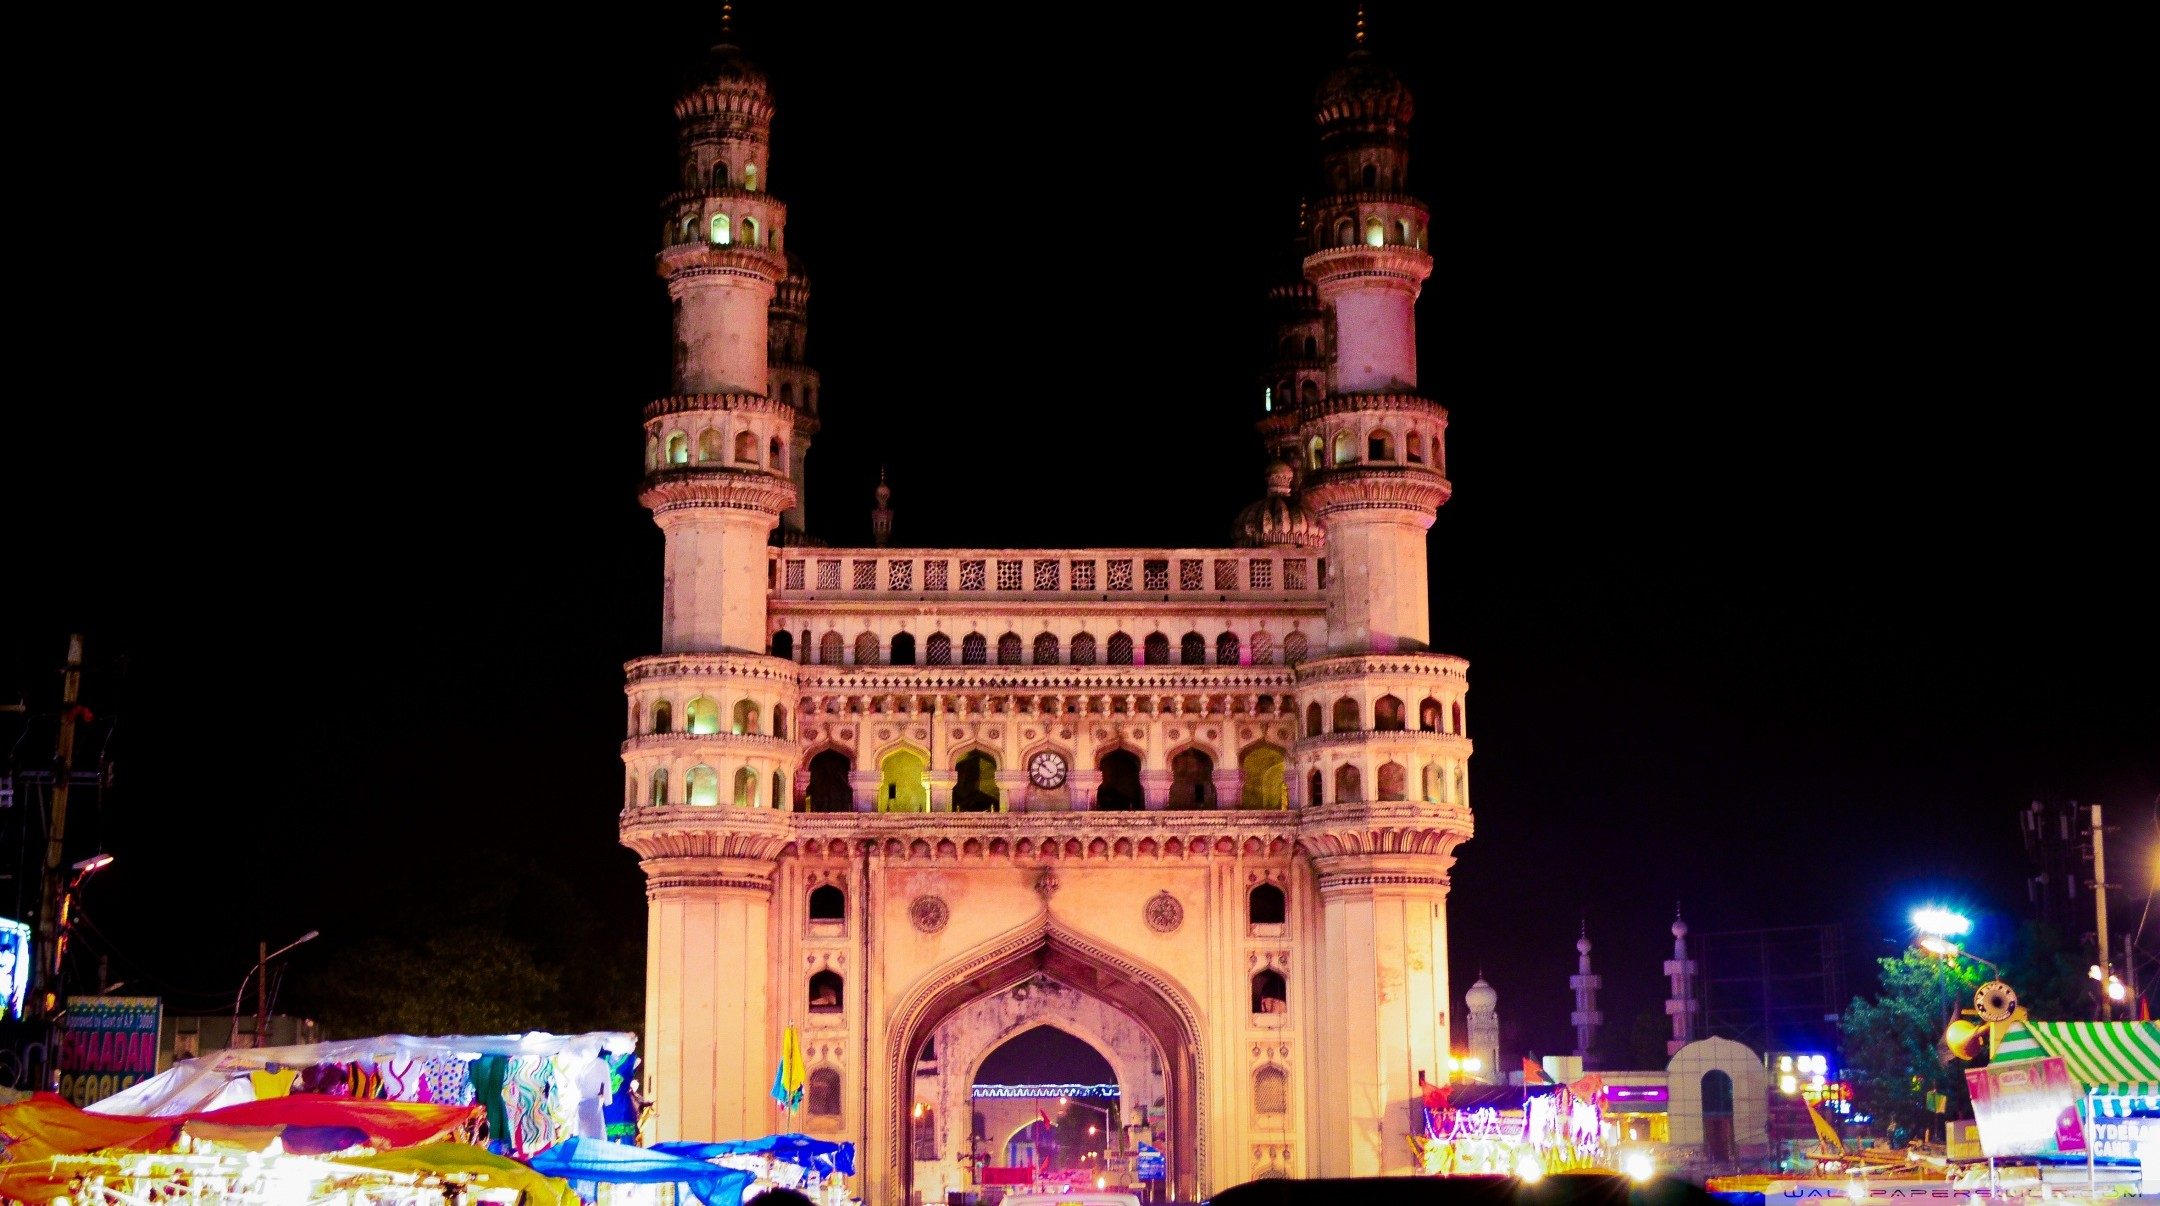
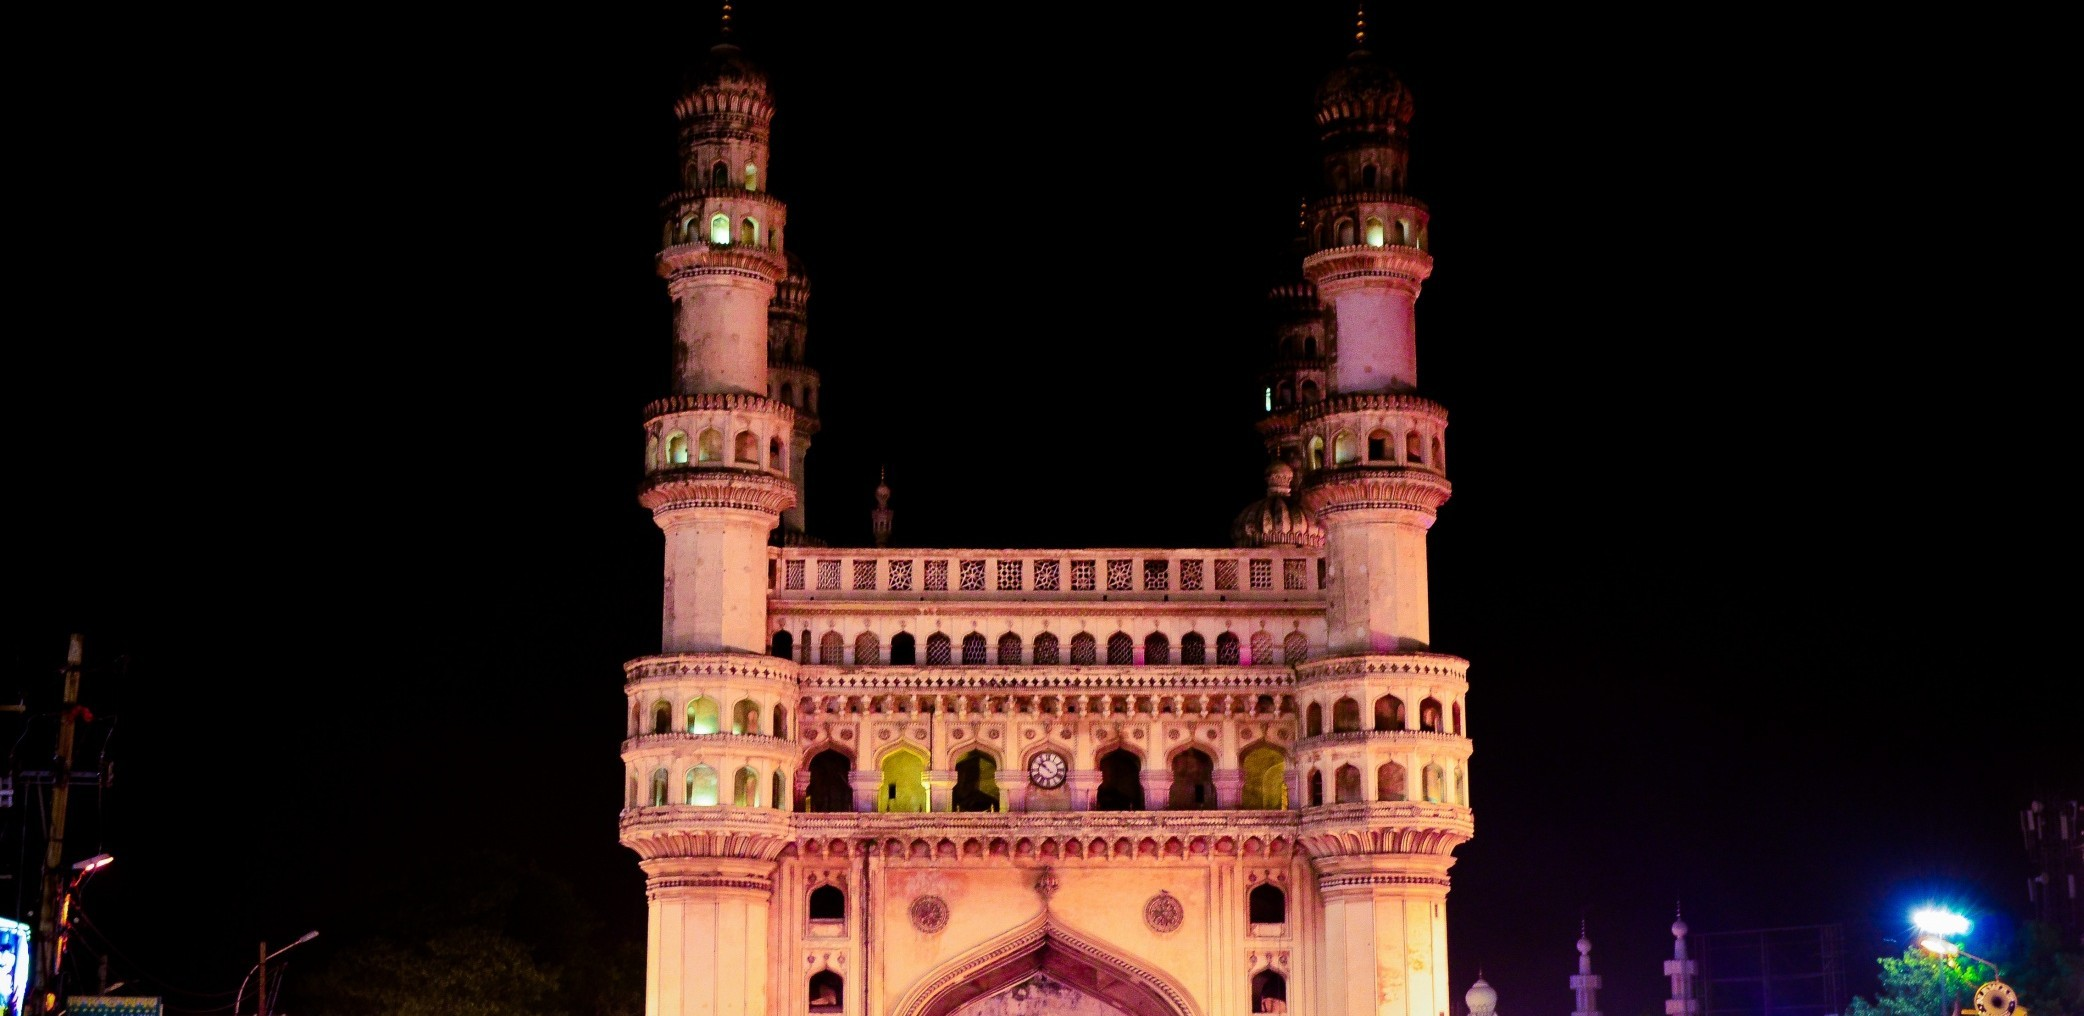
Modified hero background style following W3Schools reference

diff --git a/assets/css/style.css b/assets/css/style.css
@@ -29,7 +29,7 @@ header {
     display: flex;
     justify-content: space-between;
     align-items: baseline;
-    
+
 }
 
 header a {
@@ -44,7 +44,7 @@ h1 {
     color: #252525;
 }
 
-#menu{
+#menu {
     font-size: 120%;
     letter-spacing: 2px;
     list-style-type: none;
@@ -78,6 +78,7 @@ nav {
 #nav-toggle {
     display: none;
 }
+
 .nav-toggle-label {
     font-size: 160%;
 }
@@ -91,10 +92,13 @@ main {
 }
 
 /* Hero section */
-#hero{
+#hero {
     height: 700px;
     width: 100%;
-    background: url("../images/hero-image.jpg") no-repeat center center/cover;
+    background-image: url("../images/hero-image.jpg");
+    background-repeat: no-repeat;
+    background-position: center top;
+    background-size: 150%;
 }
 
 /* Footer */
@@ -105,7 +109,8 @@ main {
     justify-content: space-evenly;
     list-style-type: none;
 }
-#social-networks i{
+
+#social-networks i {
     font-size: 160%;
     padding: 5%;
     color: #3a3a3a;
@@ -113,6 +118,7 @@ main {
 
 /* Media queries : tablets and larger screen sizes (768px and up) */
 @media screen and (min-width: 768px) {
+
     /* Header */
     nav {
         position: relative;
@@ -121,30 +127,46 @@ main {
         box-shadow: none;
         display: block;
     }
-    #menu{
-        display:flex;
+
+    #menu {
+        display: flex;
     }
-    #menu > li{
+
+    #menu>li {
         padding-left: 1rem;
     }
+
     .nav-toggle-label {
         display: none;
     }
-    #logo{
+
+    #logo {
         font-size: 280%;
         line-height: 75px;
         margin: 0 0.5rem;
     }
+
     /*  */
-    main{
+    main {
         margin-top: 113px;
+    }
+
+    /* Hero section */
+    #hero {
+        height: 700px;
+        width: 100%;
+        background-image: url("../images/hero-image.jpg");
+        background-repeat: no-repeat;
+        background-position: center top;
+        background-size: 100%;
     }
 }
 
 /* Media queries : larger screen sizes (992px and up) */
 @media screen and (min-width: 992px) {
+
     /* link hover effect */
-    #menu a:hover{
+    #menu a:hover {
         border-bottom: 1px solid #3a3a3a;
     }
 }

diff --git a/index.html b/index.html
@@ -43,7 +43,12 @@
 
     <!-- Main Content -->
     <main>
-        <section id="hero"></section>
+        <section id="hero">
+            <div class="cover-text">
+                <h2>My City - Hyderabad</h2>
+                <h3>A breif history of Hyderabad</h3>
+            </div>
+        </section>
     </main>
 
     <!-- Footer -->
